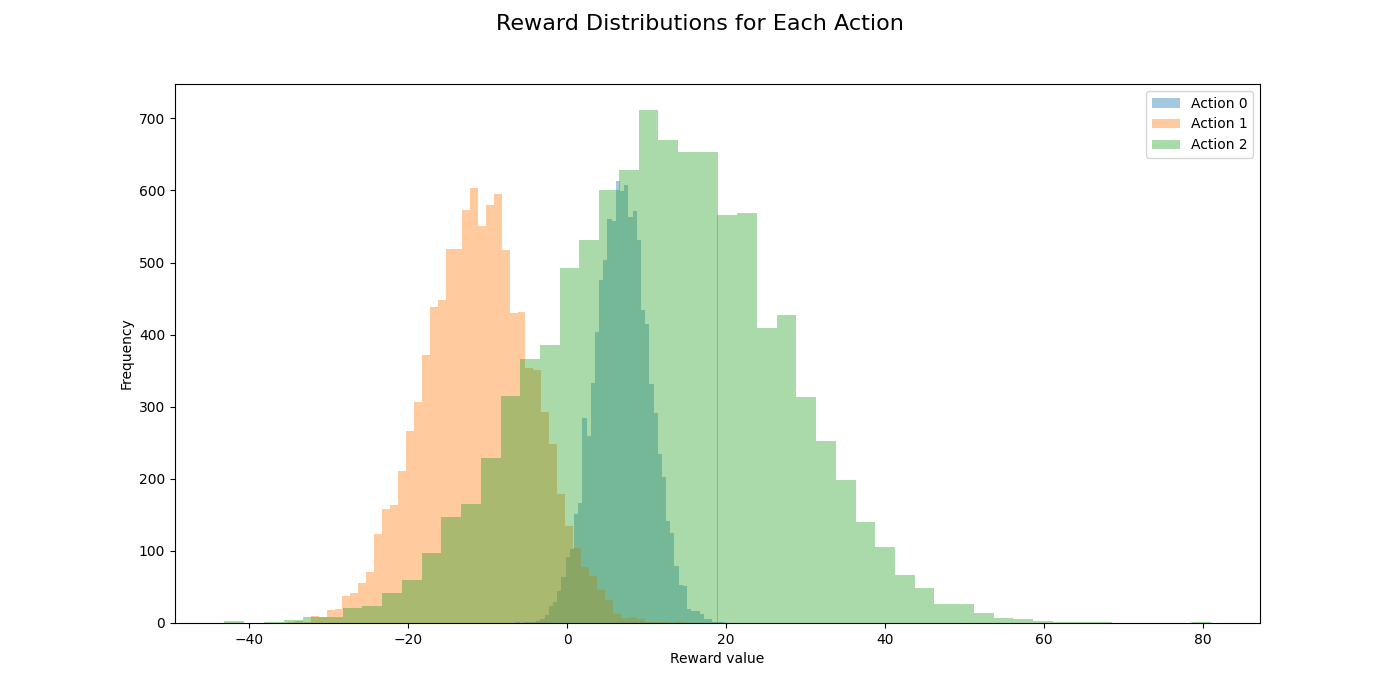
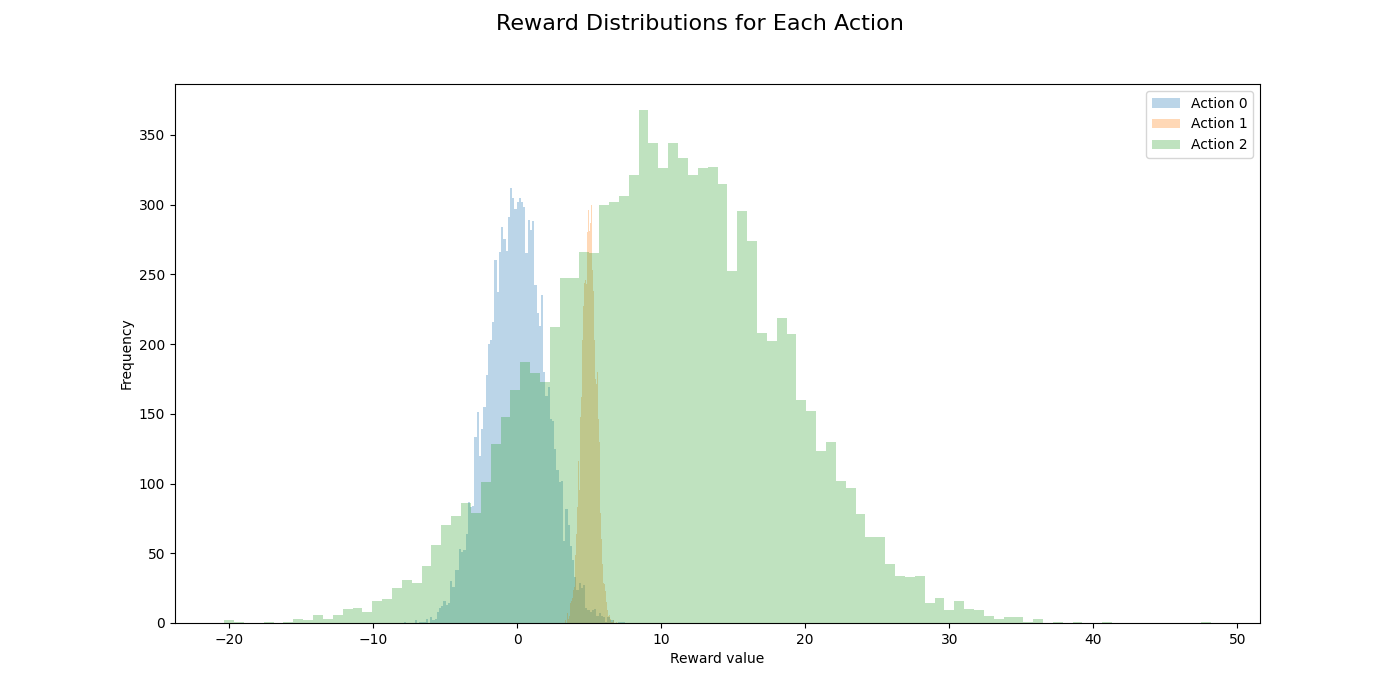
better eps greedy

diff --git a/8 - RL algos from scratch/epsilon_greedy.py b/8 - RL algos from scratch/epsilon_greedy.py
@@ -1,54 +1,26 @@
 
-from dataclasses import dataclass
+from dataclasses import dataclass, field
 import random
-from typing import List, Tuple
-
+from typing import Dict
 from tqdm import tqdm
+from utils.utils import FiniteActionSpaceEnvironment, NArmedBanditEnvironment
 
-from utils.utils import BaseEnvironment
-
-
-@dataclass
-class NArmedBanditEnvironment(BaseEnvironment):
-    # Probabilities of success for each arm
-    reward_probabilities: List[float]
-    # Each tuple contains (reward if successful, reward if unsuccessful)
-    reward_values: List[Tuple[float, float]]
-
-    def reset(self):
-        pass
-
-    def step(self, action: int):
-        if action < 0 or action >= self.action_space:
-            raise ValueError("Invalid action: action must be between 0 and n_arms - 1")
-        
-        # Simulate the reward based on the action taken
-        reward = self.reward_values[action][0] if random.random() < self.reward_probabilities[action] else self.reward_values[action][1]
-        return reward
-    
-    def first_render(self):
-        print(f"Current action space: {self.action_space}")
-        print(f"Reward probabilities: {self.reward_probabilities}")
-        print(f"Reward values: {self.reward_values}")
 
 @dataclass
 class EpsilonGreedy:
-    environment: BaseEnvironment
-    epsilon: float  # Probability of exploring
+    environment: FiniteActionSpaceEnvironment
+    epsilon: float
     step: int = 0
-    action_average_reward: List[float] = None
-
-
-    def __post_init__(self):
-        self.reset()
+    action_average_reward: Dict[int, float] = field(default_factory=dict)
 
     def reset(self):
         """Reset the environment and the agent's state."""
         self.environment.reset()
         self.step = 0
-        self.action_average_reward = [0.0] * self.environment.action_space
+        self.action_average_reward = {action: 0.0 for action in range(self.environment.actions_dimension)}
 
     def train(self, n_steps: int, render: bool = False):
+        self.reset()
 
         if render:
             print("Training started...")
@@ -58,15 +30,14 @@ class EpsilonGreedy:
             # Select the action with the highest average reward
             if random.random() < self.epsilon:
                 # Explore: select a random action
-                action = random.randint(0, self.environment.action_space - 1)
+                action = random.randint(0, self.environment.actions_dimension - 1)
             else:
                 # Exploit: select the action with the highest average reward
-                action = self.action_average_reward.index(max(self.action_average_reward))
-            
+                action = max(self.action_average_reward, key=self.action_average_reward.get) if self.action_average_reward else random.randint(0, self.environment.actions_dimension - 1)
             reward = self.environment.step(action)
             
             # Update the average reward for the selected action
-            self.action_average_reward[action] = (self.action_average_reward[action] * self.step + reward ) / (self.step + 1)
+            self.action_average_reward[action] = (self.action_average_reward.get(action, 0) * self.step + reward ) / (self.step + 1)
             self.step += 1
 
             if render:
@@ -78,11 +49,10 @@ class EpsilonGreedy:
 if __name__ == "__main__":
     # Example usage
     n_arms = 3
-    reward_probabilities = [random.uniform(0.1, 0.9) for _ in range(n_arms)]
-    reward_values = [(random.uniform(1, 10), random.uniform(-1, -5)) for _ in range(n_arms)]
-
-    env = NArmedBanditEnvironment(action_space=n_arms, reward_probabilities=reward_probabilities, reward_values=reward_values)
-    agent = EpsilonGreedy(environment=env, epsilon=0.1)
+    random.seed(42)  # For reproducibility
+    reward_distributions = [lambda: random.gauss(0, 2), lambda: random.gauss(5, 0.5), lambda: random.gauss(10, 8)]
+    env = NArmedBanditEnvironment(actions_dimension=n_arms, reward_distributions=reward_distributions)
+    agent = EpsilonGreedy(environment=env, epsilon=0.4)
 
     agent.train(n_steps=1000, render=True)
     print("Training completed.")

diff --git a/8 - RL algos from scratch/greedy.py b/8 - RL algos from scratch/greedy.py
@@ -41,21 +41,12 @@ class Greedy:
         print(f"Step: {self.step}, Average Rewards: {self.action_average_reward}")
 
 if __name__ == "__main__":
-    # Example usage
     n_arms = 3
-    reward_distributions = []
     random.seed(42)  # For reproducibility
-
-    for i in range(n_arms):
-        # Create a random Gaussian distribution for each arm
-        # Mean is between -5 and 5, standard deviation is between 0 and 5
-        mean = random.uniform(-25, 25)
-        stddev = random.uniform(3, 20)
-        reward_distributions.append(lambda m=mean, s=stddev: random.gauss(m, s))
-
+    reward_distributions = [lambda: random.gauss(0, 2), lambda: random.gauss(5, 0.5), lambda: random.gauss(10, 8)]
     env = NArmedBanditEnvironment(actions_dimension=n_arms, reward_distributions=reward_distributions)
     agent = Greedy(environment=env)
 
-    agent.train(n_steps=100, render=True)
+    agent.train(n_steps=1000, render=True)
     print("Training completed.")
     print("Average rewards:", agent.action_average_reward)

diff --git a/8 - RL algos from scratch/utils/utils.py b/8 - RL algos from scratch/utils/utils.py
@@ -46,7 +46,7 @@ class NArmedBanditEnvironment(FiniteActionSpaceEnvironment):
         plt.suptitle("Reward Distributions for Each Action", fontsize=16)
         # Plot the distributions
         for i in range(self.actions_dimension):
-            plt.hist([self.action_reward(i) for _ in range(10000)], bins=50, alpha=0.4, label=f"Action {i}")
+            plt.hist([self.action_reward(i) for _ in range(10000)], bins=100, alpha=0.3, label=f"Action {i}")
         plt.xlabel("Reward value")
         plt.ylabel("Frequency")
         plt.legend()

diff --git a/README.md b/README.md
@@ -78,13 +78,26 @@ Expected reward with the strategy: **4.1495**
 
 | Action | Average Reward |
 |--------|----------------|
-| 0      | 7.1773         |
-| 1      | 0.0            |
+| 0      | -1.85          |
+| 1      | 5.0            |
 | 2      | 0.0            |
 
 #### Epsilon-Greedy
 
-- Greedy but add an exploration probability of epsilon. Each step, select a random action with probability epsilon else pick the greedy action.
+- Like Greedy but adds an exploration probability of epsilon. Each step, select a random action with probability epsilon else pick the greedy action.
+
+- In the same example as above with 3 dimensional action space.
+<p align="center">
+  <img src="https://github.com/GRDimm/RLStart/blob/main/8%20-%20RL%20algos%20from%20scratch/images/greedy_reward_distributions.png" width="80%" height="80%" />
+</p>
+
+- Epsilon Greedy's output explores so discovers that action 2 is more rewarding on average.
+
+| Action | Average Reward |
+|--------|----------------|
+| 0      | 0.86           |
+| 1      | 3.31           |
+| 2      | 10.03          |
 
 #### Next on the list
 - Policy gradient
